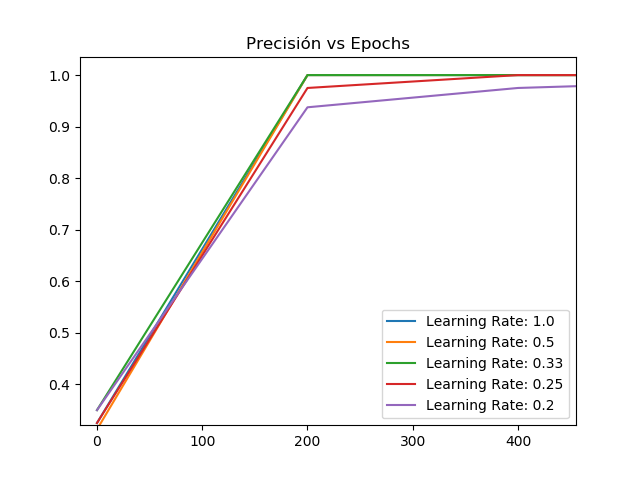
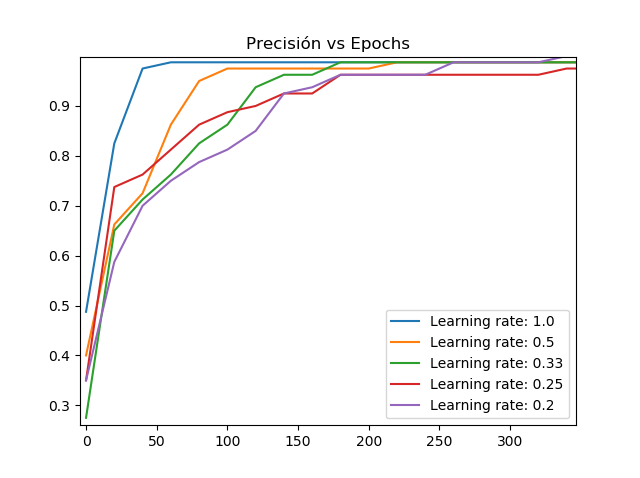
a

diff --git a/TP3/EJ6/MLP_Clasificacion.py b/TP3/EJ6/MLP_Clasificacion.py
@@ -183,11 +183,11 @@ def train(x_train, t_train, x_test, t_test, x_validation, t_validation, pesos, l
 
         # Mostramos solo cada N epochs
         if i % N == 0:
-            print()
+            # print()
             
             # Training ========================================
             
-            print("Training Loss epoch", i, ":", loss)
+            # print("Training Loss epoch", i, ":", loss)
             
             # ACCURACY
             # aciertos/ejemplos totales
@@ -202,7 +202,7 @@ def train(x_train, t_train, x_test, t_test, x_validation, t_validation, pesos, l
                     accuracy+=1
             accuracy/=cant_ejemplos
             
-            print("Training Accuracy epoch",i,":",accuracy)
+            # print("Training Accuracy epoch",i,":",accuracy)
             
             # Validation ========================================
             
@@ -217,17 +217,17 @@ def train(x_train, t_train, x_test, t_test, x_validation, t_validation, pesos, l
             accuracy_validation/=mm
             list_accuracy.append(accuracy_validation)
             list_epochs.append(i)
-            print("Validation Accuracy epoch ",i,":",accuracy_validation)
+            # print("Validation Accuracy epoch ",i,":",accuracy_validation)
             
             if prevAccuracy==None:
                 prevAccuracy = accuracy_validation
             elif accuracy_validation<=prevAccuracy:
                 # empezo a empeorar
-                print("Empeoro!!")
+                # print("Empeoro!!")
                 prob = randint(0, 100)/100
                 
                 # hacemos una parada temprana en base a una probabilidad
-                if prob<(i/epochs): # print(prob,i/epochs)
+                if False:#prob<(i/epochs): # print(prob,i/epochs)
                     break
                 else:
                     prevAccuracy = accuracy_validation
@@ -275,8 +275,8 @@ def train(x_train, t_train, x_test, t_test, x_validation, t_validation, pesos, l
         pesos["b2"] = b2
     
     # Termino el ciclo de entrenamiento
-    print()
-    print(f" * Termino el entrenamiento en {i} epochs")
+    # print()
+    # print(f" * Termino el entrenamiento en {i} epochs")
     
     # Testing ========================================
     mm = np.size(x_test, 0)
@@ -300,7 +300,7 @@ def sigmoid(x):
     
     
 
-def iniciar(numero_clases, numero_ejemplos,learnign, graficar_datos,sig=False):
+def iniciar(numero_clases, numero_ejemplos,learnign,neuronas, graficar_datos,sig=False):
     # Generamos datos
     x_train, t_train = generar_datos_clasificacion2(round(numero_ejemplos*0.8), numero_clases)
     x_validation, t_validation = generar_datos_clasificacion2(round(numero_ejemplos*0.2),numero_clases)
@@ -323,22 +323,22 @@ def iniciar(numero_clases, numero_ejemplos,learnign, graficar_datos,sig=False):
 
 
     # Inicializa pesos de la red
-    NEURONAS_CAPA_OCULTA = 100
+    NEURONAS_CAPA_OCULTA = neuronas
     NEURONAS_ENTRADA = 2
-    DETENCION_TEMPRANA = 200
+    DETENCION_TEMPRANA = 20
     pesos = inicializar_pesos(n_entrada=NEURONAS_ENTRADA, n_capa_2=NEURONAS_CAPA_OCULTA, n_capa_3=numero_clases)
 
     # Entrena
     LEARNING_RATE=learnign
-    EPOCHS=10000
+    EPOCHS=2000
     train(x_train, t_train, x_test, t_test, x_validation, t_validation, pesos, LEARNING_RATE, EPOCHS, DETENCION_TEMPRANA,sig)
 aux=[]
 for i in range(5):
     aux.append(20*(i+1))
     list_accuracy=[]
     list_epochs=[]
-    iniciar(numero_clases=3, numero_ejemplos=400,learnign=500, graficar_datos=False)
-    s=f"Cant. neuronas: {round(aux[i],2)}"
+    iniciar(numero_clases=3, numero_ejemplos=400,learnign=1,neuronas=aux[i], graficar_datos=False)
+    s=f"Cant. Neuronas: {round(aux[i],2)}"
     plt.plot(list_epochs,list_accuracy,label=s)
     plt.title("Precisión vs Epochs")
     
